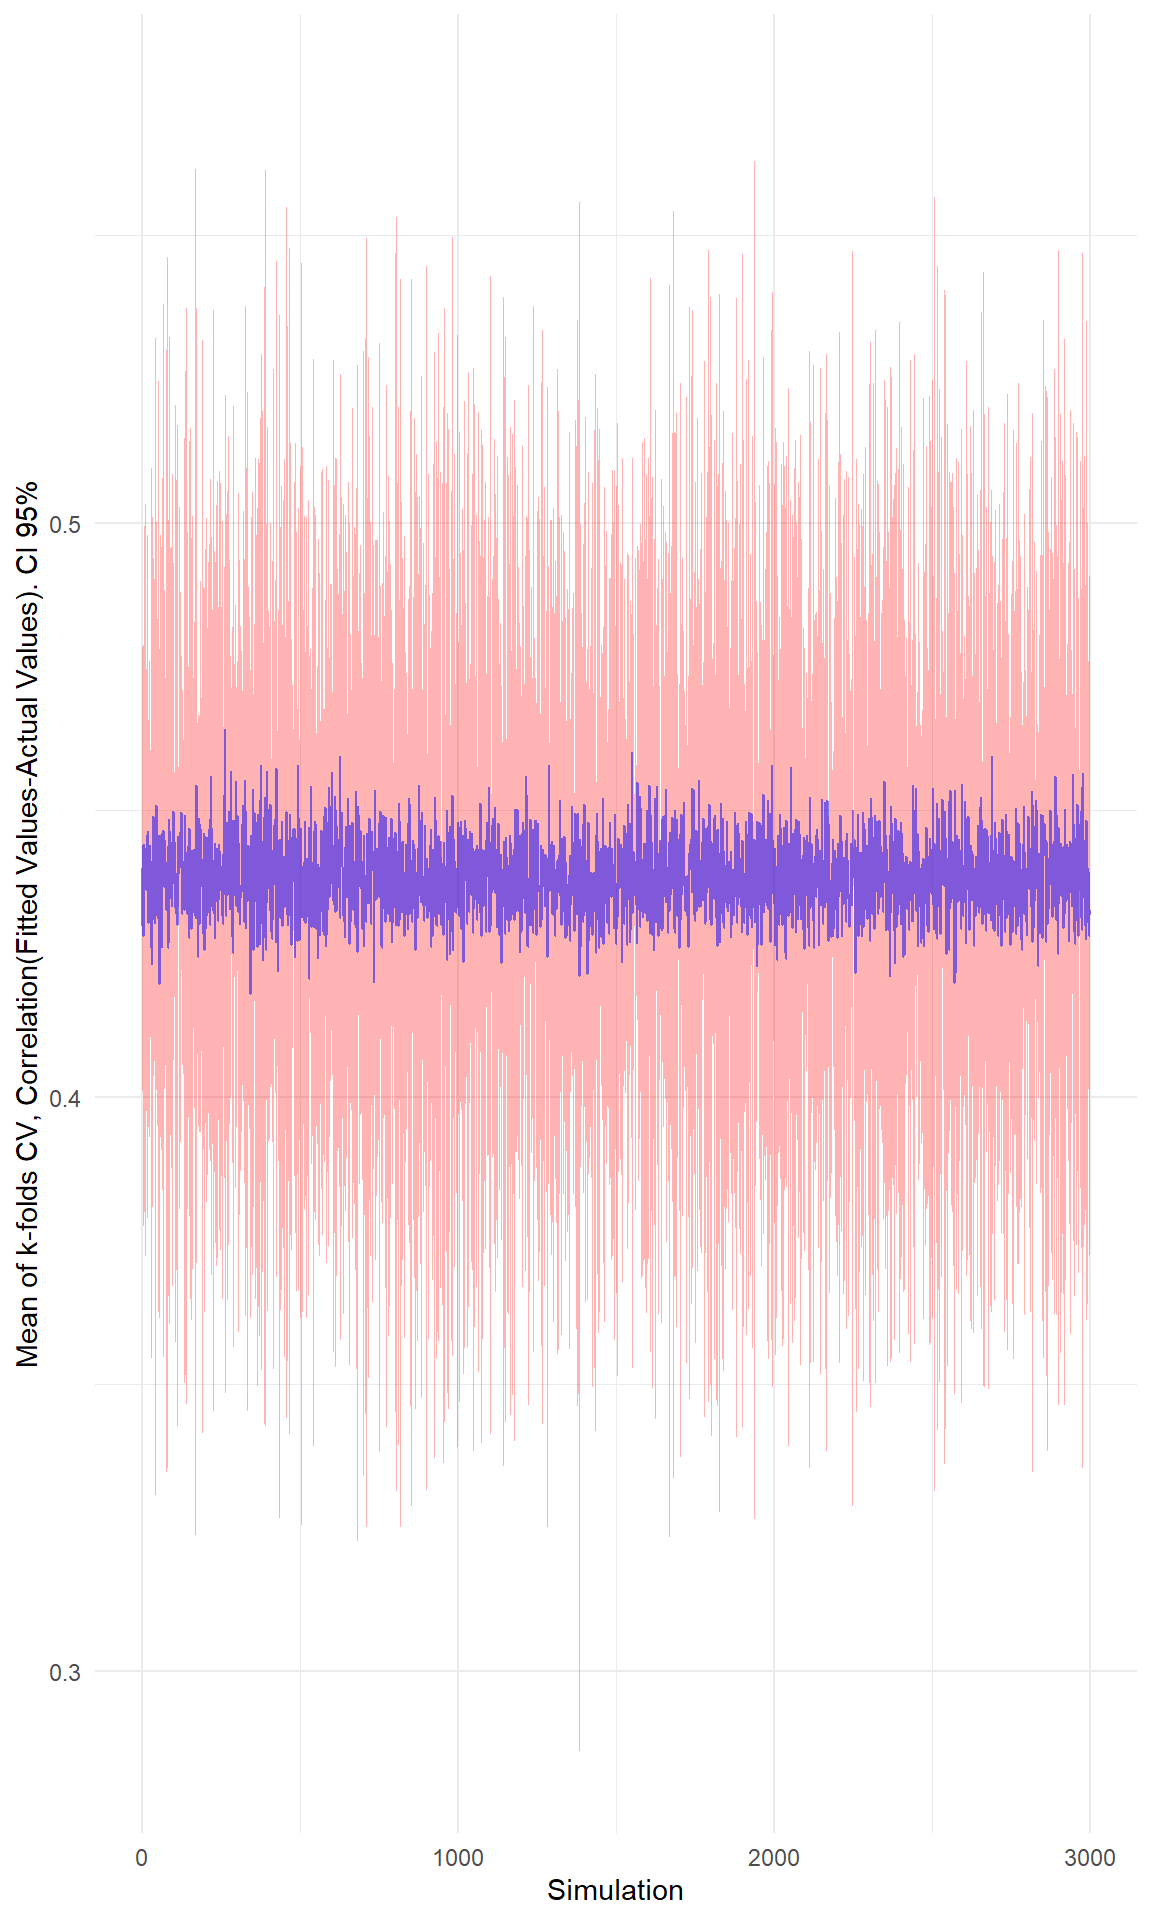
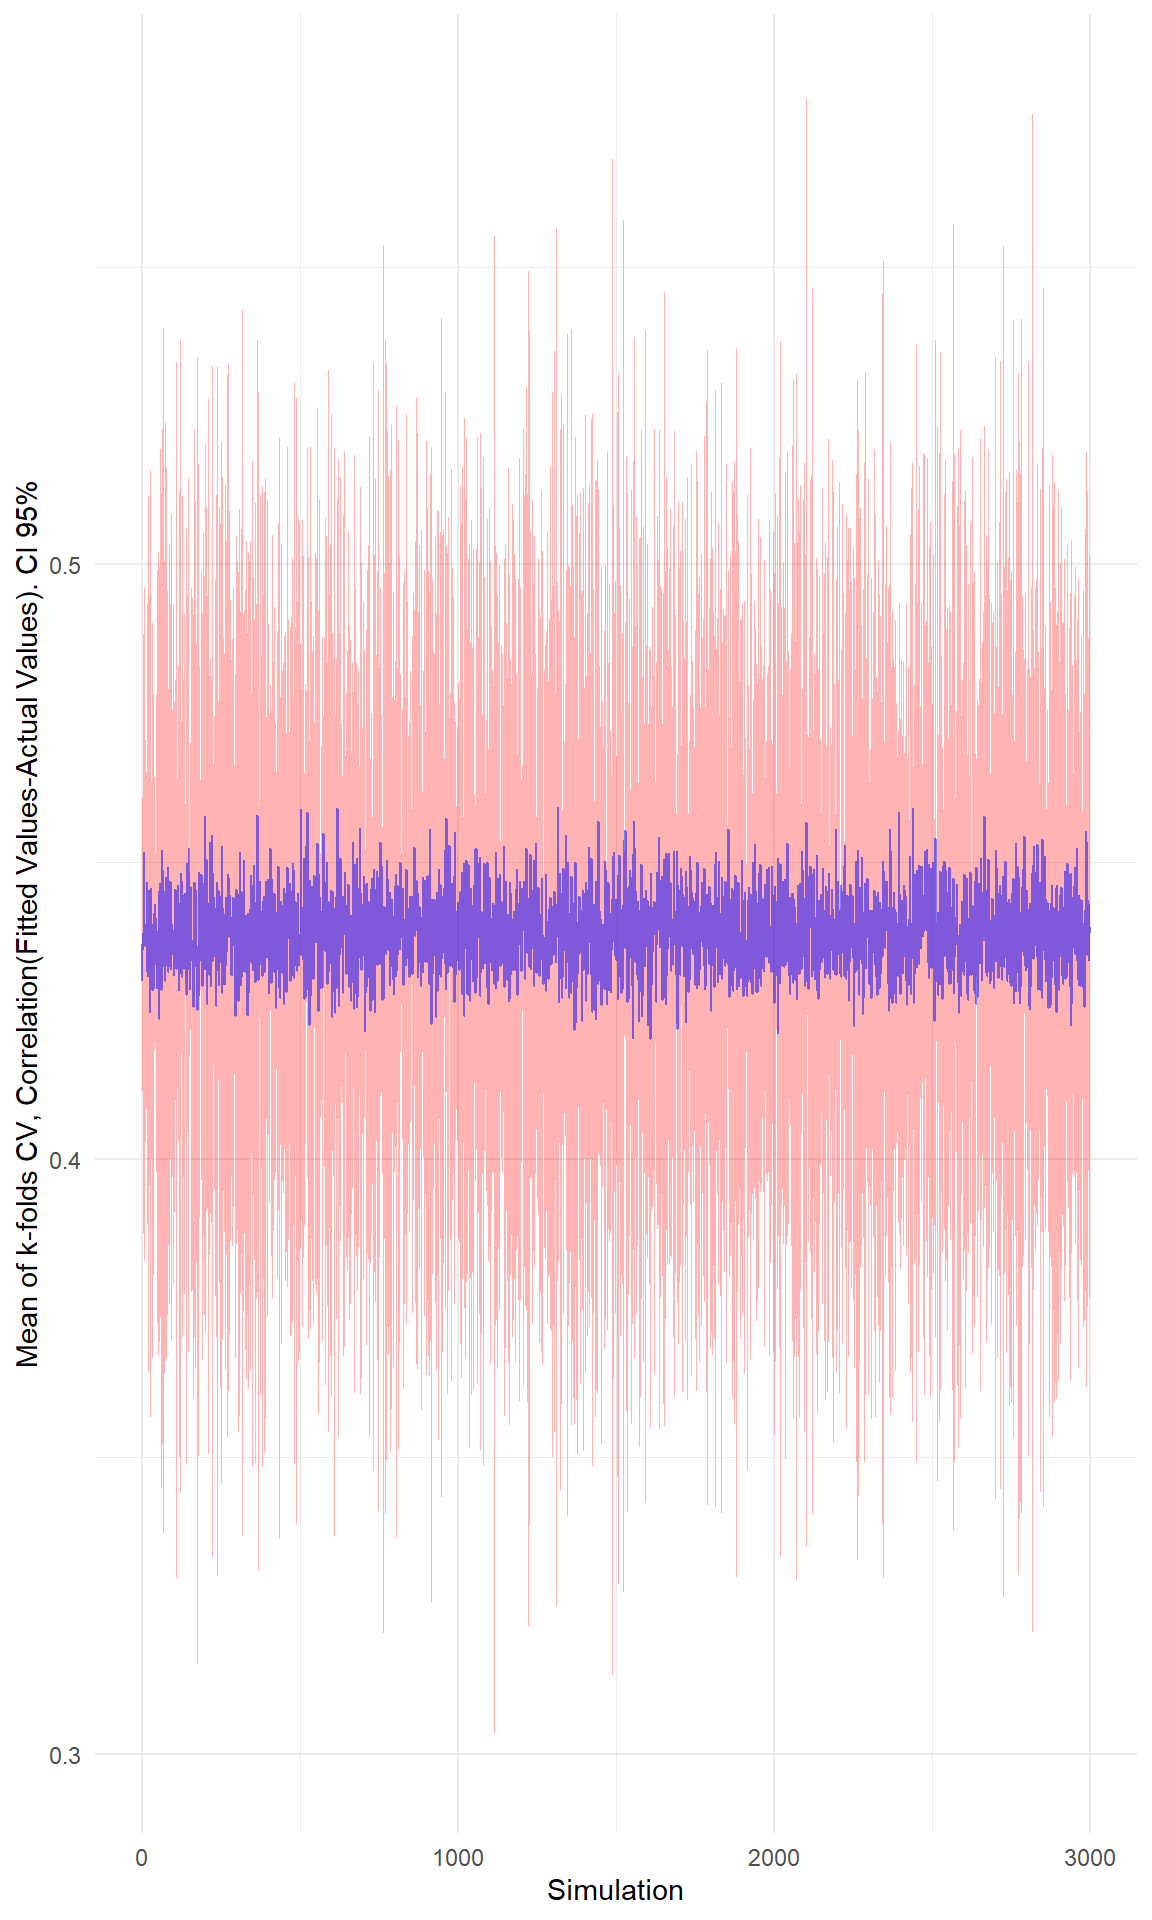
1713

Changed region(s): [[0.125, 0.1562, 0.9688, 0.7812]]

diff --git a/docs/index.html b/docs/index.html
@@ -391,7 +391,7 @@ pre > code.sourceCode > span > a:first-child::before { text-decoration: underlin
 <span id="cb5-2"><a href="#cb5-2" aria-hidden="true" tabindex="-1"></a>SWANVISIT10_mod <span class="ot">&lt;-</span> SWANVISIT10</span>
 <span id="cb5-3"><a href="#cb5-3" aria-hidden="true" tabindex="-1"></a><span class="fu">colnames</span>(SWANVISIT10_mod) <span class="ot">&lt;-</span> <span class="fu">gsub</span>(<span class="st">"10$"</span>, <span class="st">""</span>, <span class="fu">colnames</span>(SWANVISIT10_mod))</span>
 <span id="cb5-4"><a href="#cb5-4" aria-hidden="true" tabindex="-1"></a></span>
-<span id="cb5-5"><a href="#cb5-5" aria-hidden="true" tabindex="-1"></a>all <span class="ot">&lt;-</span> <span class="fu">corr_coef</span>(SWANVISIT10_mod[,<span class="dv">1</span><span class="sc">:</span><span class="dv">13</span>])</span>
+<span id="cb5-5"><a href="#cb5-5" aria-hidden="true" tabindex="-1"></a>all <span class="ot">&lt;-</span> <span class="fu">corr_coef</span>(SWANVISIT10_mod[,<span class="dv">1</span><span class="sc">:</span><span class="dv">13</span>], <span class="at">method =</span> <span class="st">"spearman"</span>)</span>
 <span id="cb5-6"><a href="#cb5-6" aria-hidden="true" tabindex="-1"></a><span class="fu">plot</span>(all)</span></code><button title="Copy to Clipboard" class="code-copy-button"><i class="bi"></i></button></pre></div>
 </details>
 <div class="cell-output-display">
